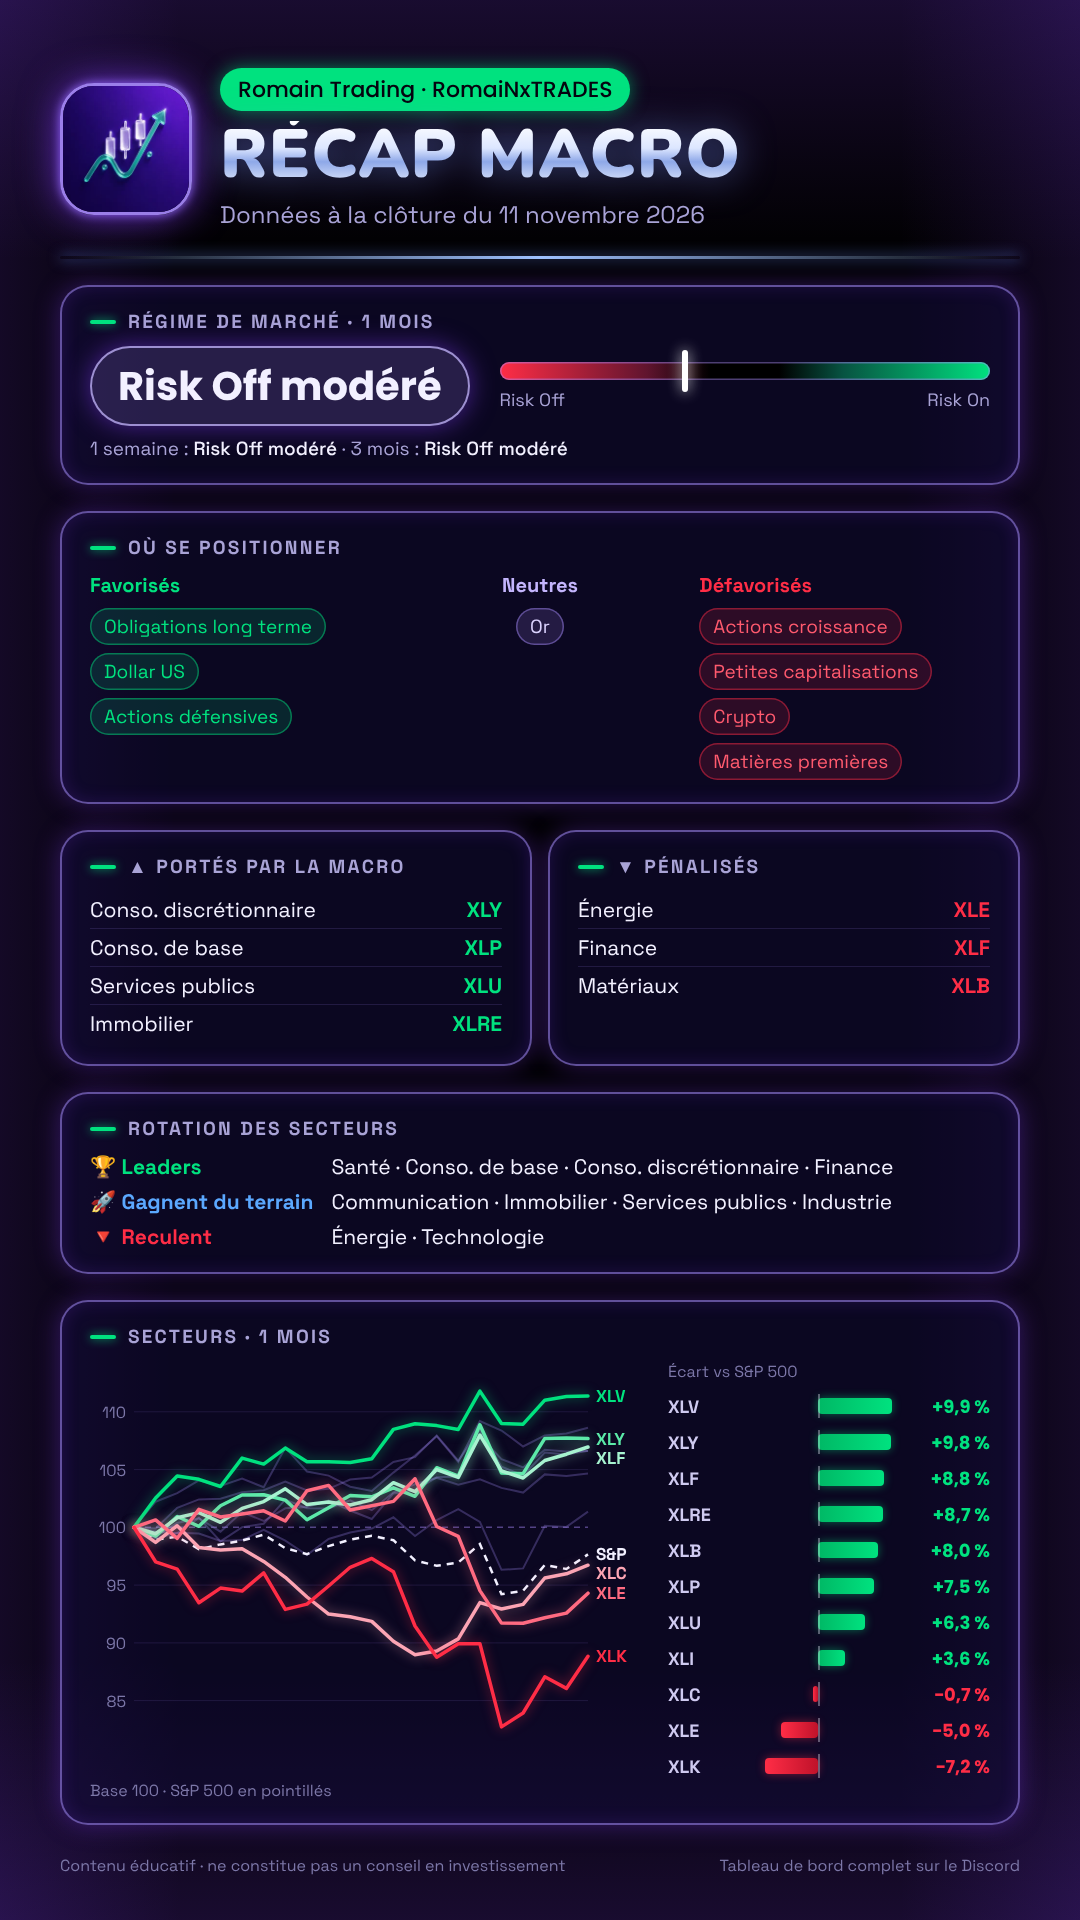
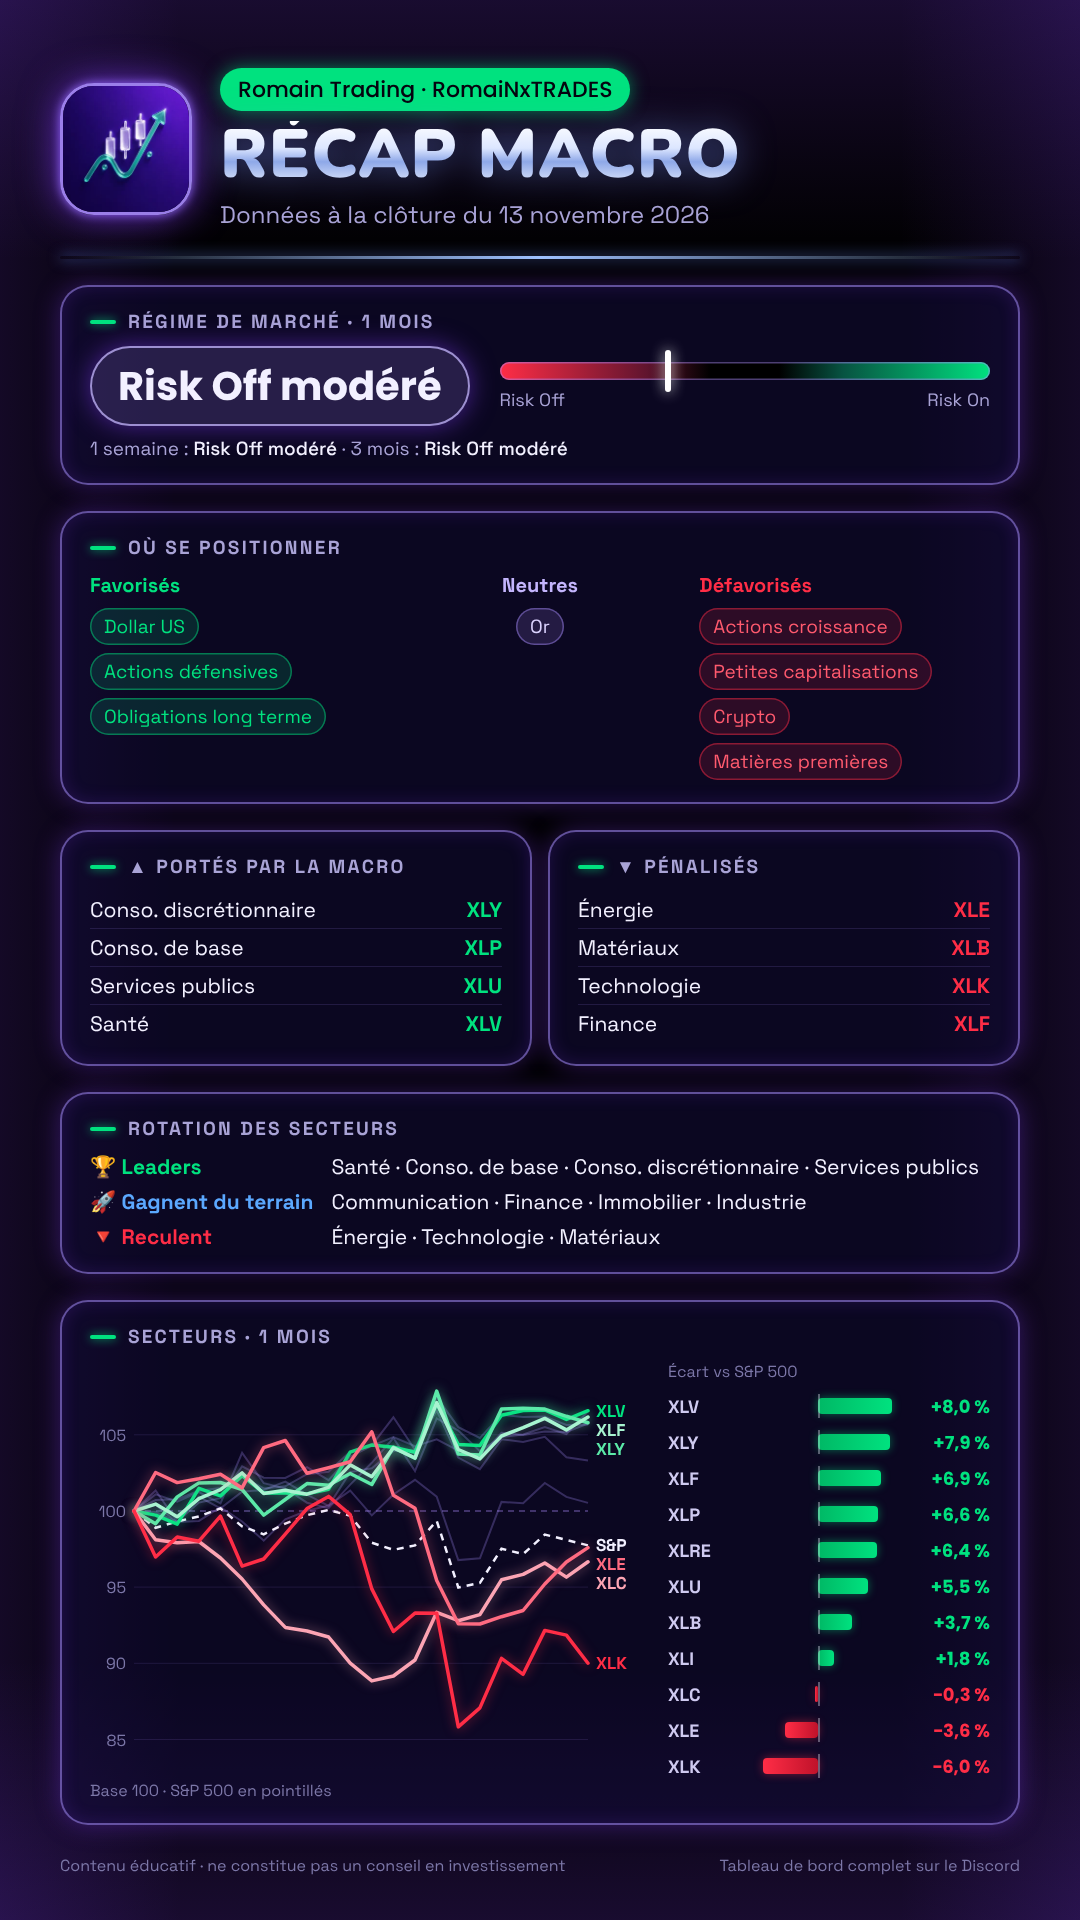
Récap macro du 13 novembre 2026
Claude-Session: https://claude.ai/code/session_0199gXjNujDjYsWcCUt7nZcV

diff --git a/tools/build_snapshot.py b/tools/build_snapshot.py
@@ -1,0 +1,79 @@
+#!/usr/bin/env python3
+"""Build the community dashboard snapshot.
+
+Usage: python3 build_snapshot.py map.json out.json
+map.json: {"XLK": "/path/to/saved/tool/result.txt", ..., "GOLD": ..., "VIX": ..., "US10Y": ...}
+Each path is a tool result saved to a file (Twelve Data CSV, FMP JSON list, Alpha Vantage CSV or preview JSON).
+Writes {"rows": [{"series", "date", "value"}...]} keeping the last 140 sessions of each series, oldest first.
+"""
+import csv, datetime, io, json, sys
+
+KEEP = 140
+EXPECTED = ["XLK", "XLC", "XLY", "XLF", "XLI", "XLB", "XLE", "XLV", "XLP", "XLU", "XLRE", "SPY", "UUP", "USO", "GOLD", "VIX", "US10Y"]
+
+
+def parse(text):
+    data = None
+    try:
+        data = json.loads(text)
+    except Exception:
+        pass
+    if isinstance(data, dict):
+        if isinstance(data.get("result"), str):
+            return parse(data["result"])
+        if isinstance(data.get("sample_data"), str):
+            return parse(data["sample_data"])
+        raise ValueError("unexpected JSON object: " + text[:200])
+    if isinstance(data, list):
+        out = []
+        for r in data:
+            v = r.get("price", r.get("close", r.get("value")))
+            if r.get("date") and v not in (None, "", "."):
+                out.append((str(r["date"])[:10], float(v)))
+        return out
+    text = text.strip().replace("\r", "")
+    if not text:
+        raise ValueError("empty result")
+    delim = ";" if text.split("\n", 1)[0].count(";") else ","
+    reader = csv.DictReader(io.StringIO(text), delimiter=delim)
+    out = []
+    for r in reader:
+        d = r.get("datetime") or r.get("timestamp") or r.get("date")
+        v = r.get("close") or r.get("value")
+        if d and v not in (None, "", "."):
+            try:
+                out.append((d[:10], float(v)))
+            except ValueError:
+                pass
+    if not out:
+        raise ValueError("no rows parsed: " + text[:200])
+    return out
+
+
+def main():
+    mapping = json.load(open(sys.argv[1]))
+    missing = [k for k in EXPECTED if k not in mapping]
+    if missing:
+        sys.exit("missing series: " + ", ".join(missing))
+    rows, report = [], []
+    today = datetime.date.today()
+    now = datetime.datetime.utcnow()
+    # Séance US en cours (avant 21h15 UTC) : on ignore la barre du jour, incomplète
+    cutoff = today if now.hour * 60 + now.minute < 21 * 60 + 15 else today + datetime.timedelta(days=1)
+    for key in EXPECTED:
+        pts = sorted(set(p for p in parse(open(mapping[key]).read()) if p[0] < cutoff.isoformat()))
+        pts = pts[-KEEP:]
+        last = datetime.date.fromisoformat(pts[-1][0])
+        if len(pts) < 130:
+            sys.exit(f"{key}: only {len(pts)} rows")
+        if (today - last).days > 7:
+            sys.exit(f"{key}: latest date {last} is stale")
+        report.append(f"{key}: {len(pts)} rows, {pts[0][0]} -> {pts[-1][0]}, last {pts[-1][1]}")
+        rows += [{"series": key, "date": d, "value": v} for d, v in pts]
+    json.dump({"rows": rows}, open(sys.argv[2], "w"), separators=(",", ":"))
+    print("\n".join(report))
+    print(f"total rows: {len(rows)}")
+
+
+if __name__ == "__main__":
+    main()
